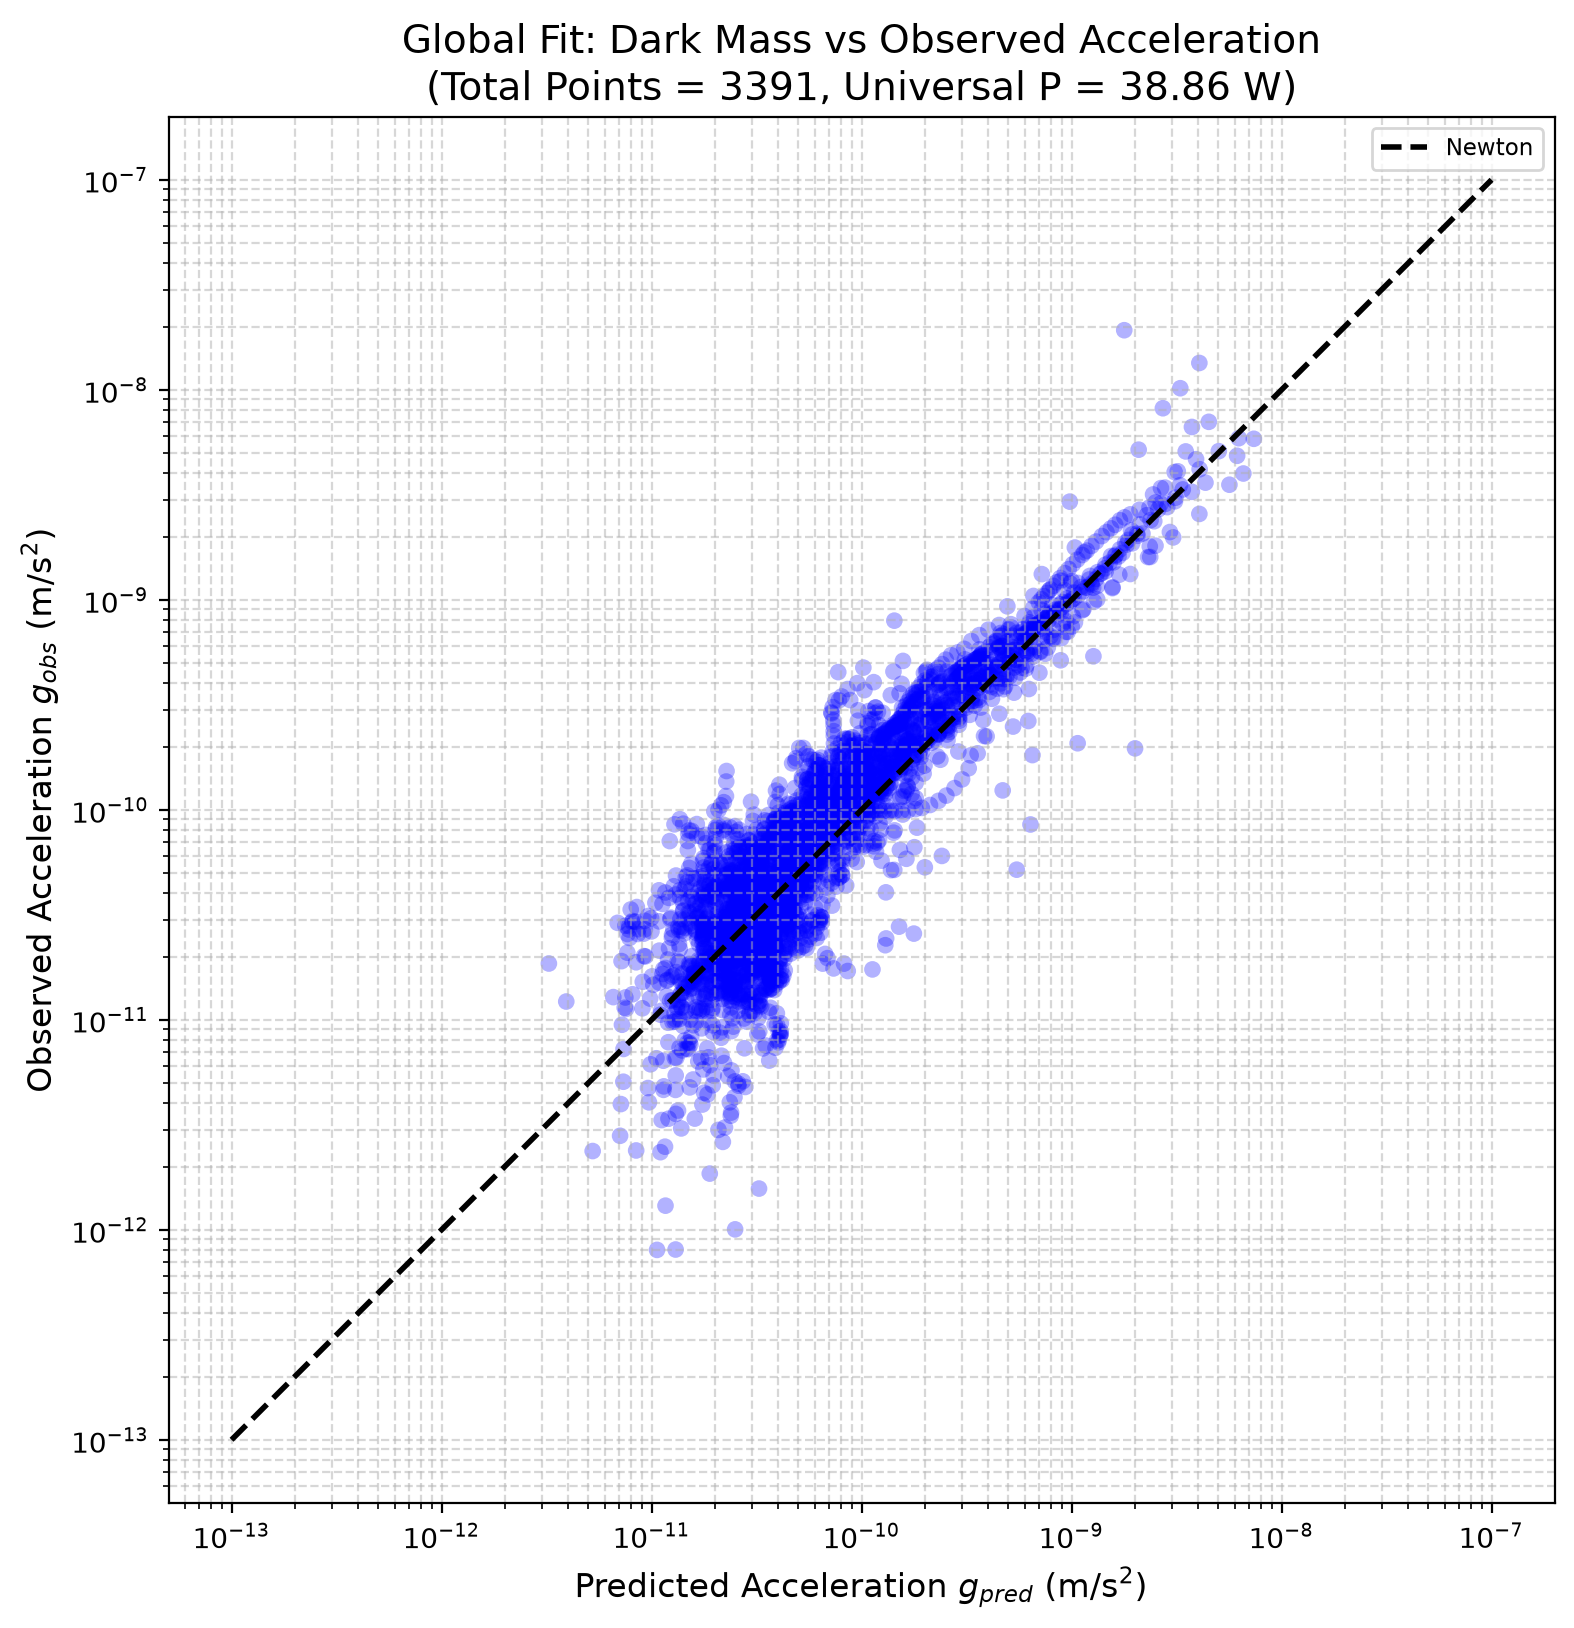
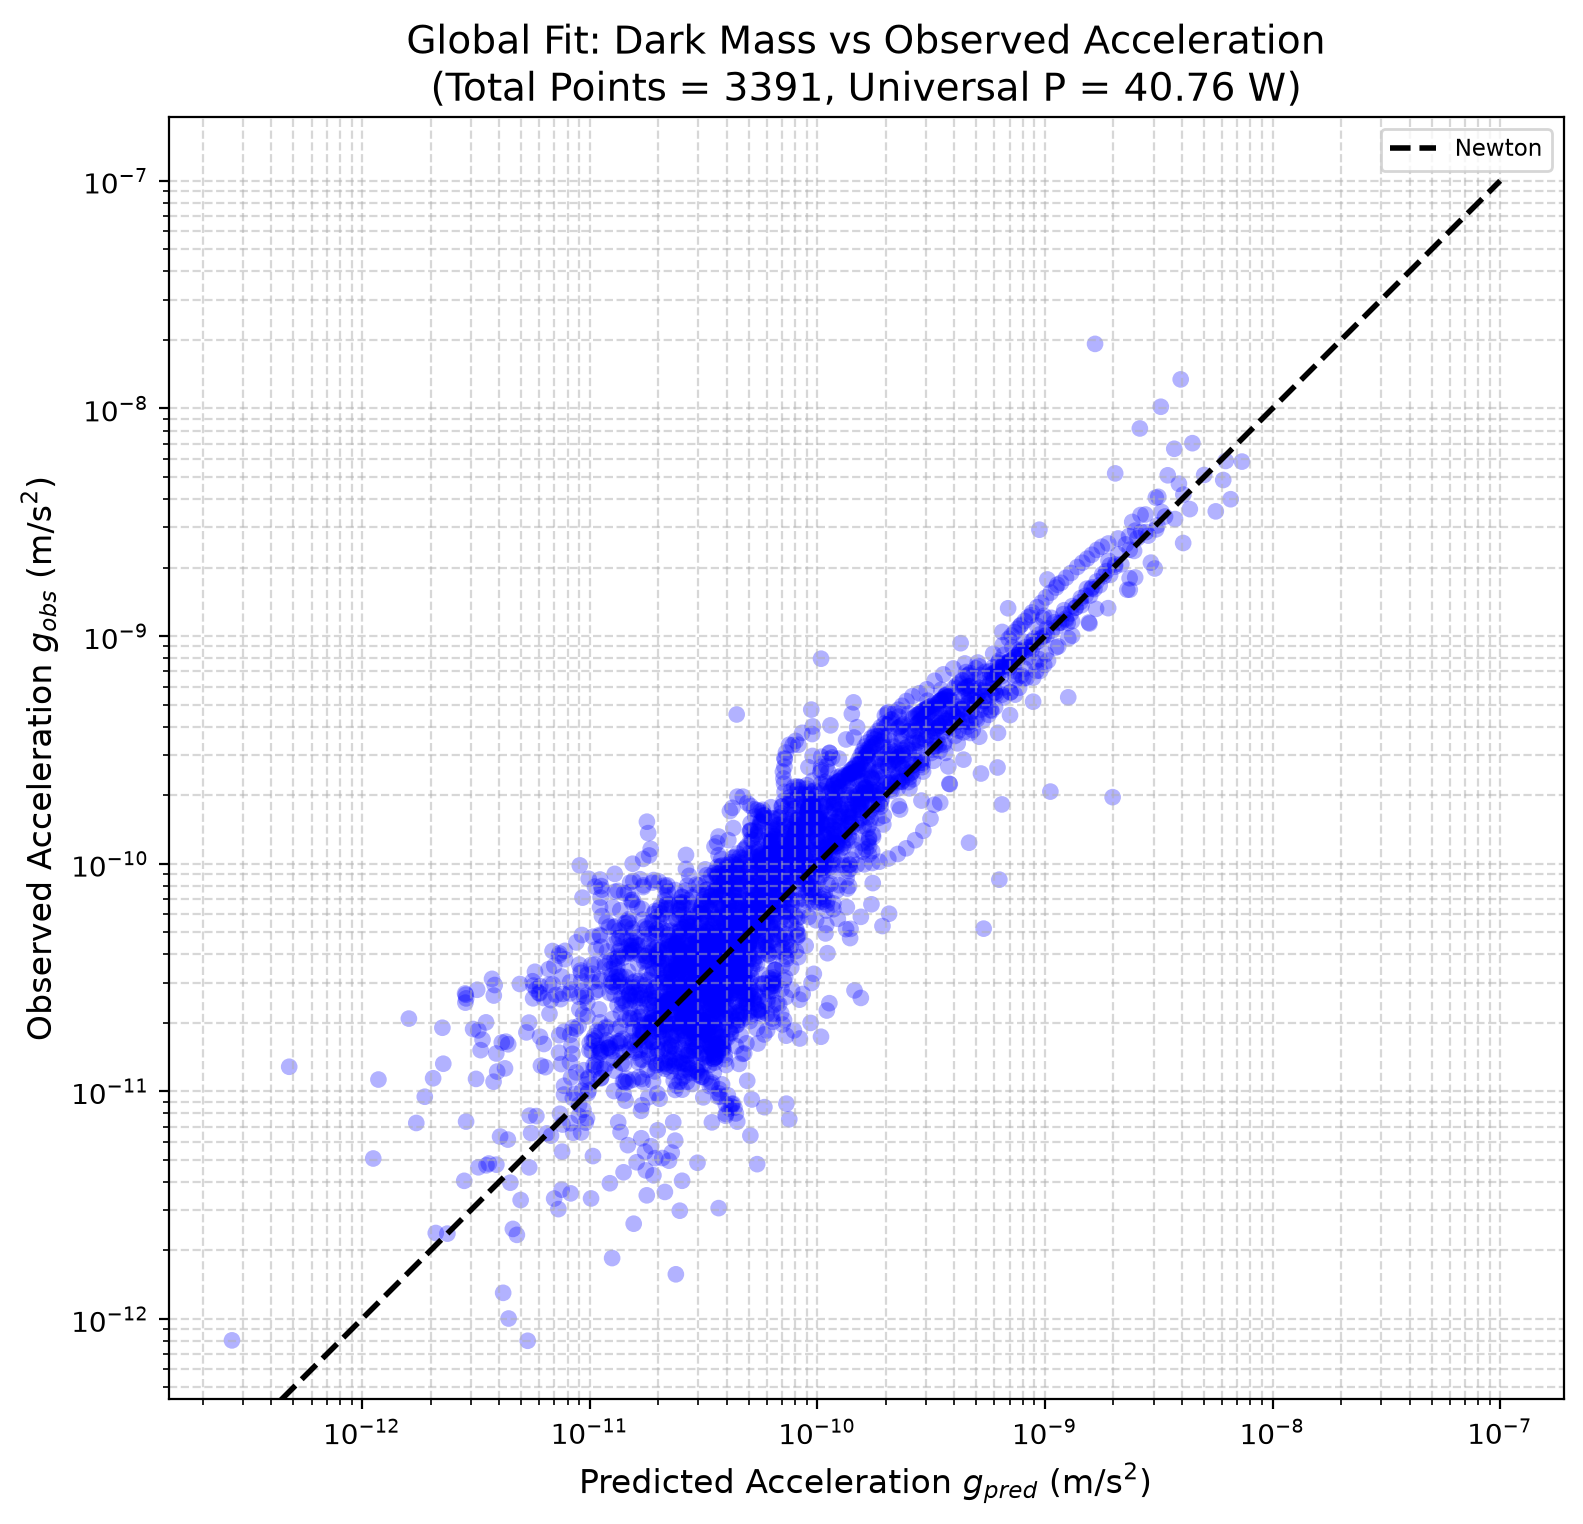
heat maps

Changed region(s): [[0.0, 0.0, 0.9962, 0.9869]]

diff --git a/sparc/sparc_dm_bruteCGM.py b/sparc/sparc_dm_bruteCGM.py
@@ -1,8 +1,8 @@
-from gizmo_analysis import gizmo_default
 import numpy as np
 import os
 from scipy.optimize import minimize_scalar
 import matplotlib.pyplot as plt
+import matplotlib.colors as mcolors
 import warnings
 
 # Suppress integration warnings for highly dense inner rings
@@ -13,23 +13,15 @@ Upsilon_bulge = 0.7
 
 sqrt_Upsilon_disk = np.sqrt(Upsilon_disk)
 sqrt_Upsilon_bulge = np.sqrt(Upsilon_bulge)
-
-# Put controls here for adding a halo of gas around the galaxy
-#MIN_DENSITY_FOR_DM = 0
-#MIN_DENSITY_WITHIN_R_D = 0   
  
-NUM_BLOBS_THETA = 87 
-NUM_LAYERS_Z = 503
-Z_HEIGHT =170 # number of scale heights of the disk we go to. Needs to be at least 2 for exponential disks, 1 would work for non exponential (i guess). 
-             # If USE_CGM_MODEL is True, you want to reach out of the scale height....go at least 20.
- 
+NUM_BLOBS_THETA = 57 
+NUM_LAYERS_Z = 303
+Z_HEIGHT = 100  
 
-NUM_R_BINS = 97  # Added for continuous 3D volume integration
+NUM_R_BINS = 87  
 USE_EXPONENTIAL_DISK = True
 
-USE_CGM_MODEL = True # add a CGM halo of gas (which will have its own dm with it.)
-                     # IF USING CGM - we expand the disk 2x in the R direction, so make NUM_R_BINS like over 60 (say 200 for prod)
-                     # also make Z_HEIGHT over 20, likely 40
+USE_CGM_MODEL = False 
 GGM_GRID_SCALE = 2.0
 CGM_CENTRAL_DENSITY = 0.3
 
@@ -43,8 +35,13 @@ properties_file = "./sparc/SPARC_Lelli2016c.mrt.txt"
 kinematics_file = "./sparc/MassModels_Lelli2016_SigmaGas.mrt"
 output_galaxies = "./sparc/dm_mass/galaxies"
 output_dir = "./sparc/dm_mass"
+output_gas_heatmaps = "./sparc/dm_mass/gas_heatmaps"
+output_dm_heatmaps = "./sparc/dm_mass/dm_heatmaps"
+
 os.makedirs(output_galaxies, exist_ok=True)
 os.makedirs(output_dir, exist_ok=True)
+os.makedirs(output_gas_heatmaps, exist_ok=True)
+os.makedirs(output_dm_heatmaps, exist_ok=True)
 
 rd_dict = {}
 HIMass_dict = {}
@@ -126,7 +123,6 @@ for i, gal in enumerate(galaxies):
     V_disk_ms = g_data['Vdisk'] * 1000.0
     V_bul_ms = g_data['Vbul'] * 1000.0
     
-    # Create continuous, evenly spaced grid
     max_R_kpc = np.max(R_obs_kpc)
     grid_max = max_R_kpc
     if USE_CGM_MODEL:
@@ -136,13 +132,13 @@ for i, gal in enumerate(galaxies):
     R_grid_m = R_grid_kpc * kpc_to_m
     dR_m = R_grid_m[1] - R_grid_m[0]
     
-    # we get surprises when we let the gas go on forever, so taper things off... 
     g_data_r_obs_kpc = R_obs_kpc
     g_data_sigma_gas = g_data['Sigma_gas']
     g_data_Vdisk = g_data['Vdisk']
     g_data_Vbul = g_data['Vbul']
     g_data_Vgas = g_data['Vgas']
-    if USE_CGM_MODEL: # add extra point at the end, let the interp function do its job.
+    
+    if USE_CGM_MODEL: 
         rscale = 1.0/(GGM_GRID_SCALE * GGM_GRID_SCALE)
         g_data_r_obs_kpc = np.append(R_obs_kpc, grid_max)
         g_data_sigma_gas = np.append(g_data_sigma_gas, 0.0)
@@ -150,7 +146,6 @@ for i, gal in enumerate(galaxies):
         g_data_Vbul = np.append(g_data_Vbul, rscale*g_data_Vbul[-1])
         g_data_Vgas = np.append(g_data_Vgas, rscale*g_data_Vgas[-1])
     
-    # Interpolate input data onto the continuous grid
     Sigma_gas_cm2_grid = np.interp(R_grid_kpc, g_data_r_obs_kpc, g_data_sigma_gas)
     g_data['Vdisk_grid'] = np.interp(R_grid_kpc, g_data_r_obs_kpc, g_data_Vdisk)
     g_data['Vbul_grid'] = np.interp(R_grid_kpc, g_data_r_obs_kpc, g_data_Vbul)
@@ -160,24 +155,16 @@ for i, gal in enumerate(galaxies):
     hz_kpc = get_sparc_galaxy_scale_height(None, R_d)
     hz_m = hz_kpc * kpc_to_m
     
-    valid_obs = R_m_obs > 0 # indexes of valid observed radii
-    Sigma_gas_m2_grid = Sigma_gas_cm2_grid * 100.0 * 100.0 # work in SI units. This is observed surface gas density in particles/m^2
-    
-    # n_R_gas_grid = Sigma_gas_m2_grid / (2 * hz_m) 
-    # n_R_gas_grid = n_R_gas_grid * 1.0833 # account for other species like He, as the Sigma numbers are HI gas only 
-    # valid_dm_density = np.ones_like(n_R_gas_grid, dtype=bool)
-    # rho_dm_base_grid = np.zeros_like(n_R_gas_grid)
-    # rho_dm_base_grid[valid_dm_density] = (1.0 / c**3) * (n_R_gas_grid[valid_dm_density] ** (2/3))
+    valid_obs = R_m_obs > 0 
+    Sigma_gas_m2_grid = Sigma_gas_cm2_grid * 100.0 * 100.0 
     
     # ---------------------------------------------------------
     # BRUTE FORCE 3D BLOB CALCULATION (Continuous Grid)
     # ---------------------------------------------------------
-    
-    # create the 3D array
     nz = NUM_LAYERS_Z
     ntheta = NUM_BLOBS_THETA
     
-    Z_m = np.linspace(-Z_HEIGHT * hz_m, Z_HEIGHT * hz_m, nz) # 3hz to 3hz maybe better?    OR MORE for a extragalacit gas halo??
+    Z_m = np.linspace(-Z_HEIGHT * hz_m, Z_HEIGHT * hz_m, nz) 
     dZ = Z_m[1] - Z_m[0] if nz > 1 else 2.0 * hz_m 
     
     theta_rad = np.linspace(0, 2 * np.pi, ntheta, endpoint=False)
@@ -185,20 +172,13 @@ for i, gal in enumerate(galaxies):
 
     R_grid_3d, Z_grid_3d, Theta_grid_3d = np.meshgrid(R_grid_m, Z_m, theta_rad, indexing='ij')
     
-    dV = R_grid_3d * dTheta * dR_m * dZ # Volume element of a blob in the grid
+    dV = R_grid_3d * dTheta * dR_m * dZ 
     
-
-    # layout gas particles per volume blob 
-    # gas_particle_density_1d - measured gas density at each gridded r
     gas_particle_density_1d = np.where(R_grid_m > 0, Sigma_gas_m2_grid / (2.0 * hz_m), 0.0)
     gas_particle_density_grid = gas_particle_density_1d[:, None, None] * np.ones_like(Z_grid_3d)
 
-    # that put the same amount of gas into each blob, vertically. We now have twice as much gas as we need. 
-    # We do the disk profile to get that right. 
     if USE_EXPONENTIAL_DISK:
         gas_particle_density_grid *= 0.5*np.exp(-np.abs(Z_grid_3d) / hz_m)
-        # The integral of 0.5*np.exp(-z / hz_m) dz from 0 to 2hz 
-        # is exactly 0.5 
     else: 
         z_mask = np.abs(Z_grid_3d) <= hz_m
         gas_particle_density_grid[~z_mask] = 0.0
@@ -207,37 +187,31 @@ for i, gal in enumerate(galaxies):
     Y_blob = R_grid_3d * np.sin(Theta_grid_3d)
     Z_blob = Z_grid_3d
 
-    # CGM model. 
     if USE_CGM_MODEL:
-        total_mass = TL_dict[gal_name] + HIMass_dict[gal_name] # in solar masses
+        total_mass = TL_dict[gal] + HIMass_dict[gal] 
 
         r_core_kpc = 2.0*(total_mass*1e9/1e11)**(1/3)
         r_core_m = r_core_kpc*kpc_to_m
-        n_0_cgs = CGM_CENTRAL_DENSITY # central density in particles per cm^3 
+        n_0_cgs = CGM_CENTRAL_DENSITY  
         n_0_m3 =  n_0_cgs * (100)**3
         beta = 2.0/3.0
         exponent = -3.0*beta/2.0
         gas_particle_density_grid += n_0_m3*(1 + (X_blob**2 + Y_blob**2 + Z_blob**2)/r_core_m**2)**exponent
 
+    # --- NEW: Attach 2D slice at y=0 (theta=0) for heatmaps ---
+    g_data['R_grid_kpc'] = R_grid_kpc
+    g_data['Z_grid_kpc'] = Z_m / kpc_to_m
+    g_data['gas_density_slice_m3'] = gas_particle_density_grid[:, :, 0].copy()
 
-
-
-
-    # ok, so now gas_particle_density_grid has HI densities in particles/m^3 for each blob
-    # we use this to create two 3D arrays, one for gas mass in each blob, and one for dm mass in each blob
-    gas_particle_mass_He_factor = 1.33 #  1.33 as we are still looking at the mass. 
+    gas_particle_mass_He_factor = 1.33  
     dm_gas = gas_particle_density_grid *m_p*gas_particle_mass_He_factor * dV
     dm_base_dm = (1/c**3)*gas_particle_density_grid**(2/3) * dV 
-    # CHECK: Does the sum of all the gas mass densities*dZ over all the z-values for a given R give the surface density in particles/m^2?
-    # If not, I need to fix it.  
 
-    
     V_gas_sq_grid = np.zeros_like(R_grid_m)
     V_dm_sq_base_grid = np.zeros_like(R_grid_m)
     
     softening_sq = (0.01 * hz_m)**2 
     
-    # Evaluate across continuous grid
     for i_idx, R_test in enumerate(R_grid_m):
         dx = X_blob - R_test
         dy = Y_blob
@@ -254,16 +228,12 @@ for i, gal in enumerate(galaxies):
         V_gas_sq_grid[i_idx] = -a_x_gas * R_test
         V_dm_sq_base_grid[i_idx] = max(0, -a_x_dm * R_test)
         
-    # Store continuous fields for smooth plotting
-    g_data['R_grid_kpc'] = R_grid_kpc
     g_data['V_dm_sq_base_grid_kms'] = V_dm_sq_base_grid / 1e6
     g_data['Vgas_test_grid_kms'] = np.sign(V_gas_sq_grid) * np.sqrt(np.abs(V_gas_sq_grid)) / 1000.0
     
-    # Map back to observation points for optimization and errors
     g_data['V_dm_sq_base_kms'] = np.interp(R_obs_kpc, R_grid_kpc, V_dm_sq_base_grid / 1e6)
     g_data['Vgas_test'] = np.interp(R_obs_kpc, R_grid_kpc, g_data['Vgas_test_grid_kms'])
     
-    # Calculate simple MOND for reference
     V_bar_sq = np.clip(V_disk_ms**2 + V_bul_ms**2 + V_gas_ms * np.abs(V_gas_ms), 0, None)
     g_N = np.zeros_like(R_m_obs)
     g_N[valid_obs] = V_bar_sq[valid_obs] / R_m_obs[valid_obs]
@@ -271,10 +241,6 @@ for i, gal in enumerate(galaxies):
     g_mond = (g_N + np.sqrt(g_N**2 + 4 * g_N * a0_mond)) / 2.0
     g_data['V_mond_kms'] = np.sqrt(g_mond * R_m_obs) / 1000.0
 
-    if gal == 'NGC5033':
-        print(g_mond)
-        print(g_data['V_mond_kms'])
-        
 
 print("\nIntegrations complete. Optimizing global parameter for Linear Absolute Error...")
 
@@ -289,10 +255,7 @@ def global_fit_err(P_test):
         V_bar_sq_kms = np.clip(g['Vdisk']**2 + g['Vbul']**2 + g['Vgas'] * np.abs(g['Vgas']), 0, None)
         V_tot_test = np.sqrt(V_bar_sq_kms + V_dm_test_sq)
         
-        # comment one of these out to switch error functions
-        #the_err = np.sum(np.abs(g['Vobs'] - V_tot_test) / g['eVobs']) # linear with error bars
-        #the_err = np.sum(np.abs(g['Vobs'] - V_tot_test)) # in km/sec
-        the_err = np.sum(((g['Vobs'] - V_tot_test) / g['eVobs'])**2) # chi-sq
+        the_err = np.sum(((g['Vobs'] - V_tot_test) / g['eVobs'])**2) 
         total_err += the_err
 
     print(f"Current P_test: {P_test:.4f} Watts, Current Error: {total_err:.2f}")   
@@ -301,11 +264,6 @@ def global_fit_err(P_test):
 result = minimize_scalar(global_fit_err, bounds=(2.0, 100.0), method='bounded')
 best_global_P = result.x
 min_found_err = result.fun
-
-# print(f"Trying Power test 0 - 100W")
-# for power_guess in np.linspace(0.1, 100.0, 100):
-#     error = global_fit_err(power_guess)
-
     
 dm_chi2_total = 0
 dm_linear_total = 0
@@ -322,22 +280,61 @@ for gal in galaxies:
     
     dm_chi2_total += np.sum(((g['Vobs'] - V_tot_final_kms) / g['eVobs'])**2)
     dm_linear_total_err += np.sum(np.abs(g['Vobs'] - V_tot_final_kms) / g['eVobs'])
-    dm_linear_total += np.sum(np.abs(g['Vobs'] - V_tot_final_kms)) # in km/sec
+    dm_linear_total += np.sum(np.abs(g['Vobs'] - V_tot_final_kms)) 
 
     mond_chi2_total += np.sum(((g['Vobs'] - g['V_mond_kms']) / g['eVobs'])**2)
     mond_linear_total_err += np.sum(np.abs(g['Vobs'] - g['V_mond_kms']) / g['eVobs'])
-    mond_linear_total += np.sum(np.abs(g['Vobs'] - g['V_mond_kms'])) # in km/sec
+    mond_linear_total += np.sum(np.abs(g['Vobs'] - g['V_mond_kms'])) 
 
-print(f"\n--- GLOBAL OPTIMIZATION RESULTS ---")
-print(f"Best Universal Power (P): {best_global_P:.4f} Watts")
-print(f"Dark Mass Theory - Found Error:  {min_found_err:.2f}")
-print(f"Dark Mass Theory - Resulting Chi-squared: {dm_chi2_total:.2f}")
-print(f"Dark Mass Theory - Resulting Linear: {dm_linear_total_err:.2f}")
-print(f"Dark Mass Theory - Resulting Linear - km2: {dm_linear_total:.2f}")
-print(f"\n--- MOND (Simple) PREDICTION ERRORS ---")
-print(f"MOND - Chi-squared:   {mond_chi2_total:.2f}")
-print(f"MOND - Linear Error :  {mond_linear_total_err:.2f}")
-print(f"MOND - Linear Error - km2: {mond_linear_total:.2f}")
+
+# ---------------------------------------------------------
+# NEW FUNCTION: Generate and output heatmaps
+# ---------------------------------------------------------
+def generate_density_heatmaps(galaxy_dict, best_P):
+    print("\nGenerating 2D Gas and DM Heatmaps...")
+    for gal in galaxy_dict:
+        g = galaxy_dict[gal]
+        R_kpc = g['R_grid_kpc']
+        Z_kpc = g['Z_grid_kpc']
+        gas_density_m3 = g['gas_density_slice_m3']
+        
+        # 1) Gas density to particles/cm^3 (1 m^3 = 10^6 cm^3)
+        gas_density_cm3 = gas_density_m3 / 1e6
+        
+        # 2) DM density (mass density in kg/m^3) -> particles/cm^3 (divide by m_p and 10^6)
+        dm_density_kg_m3 = best_P * (1/c**3) * (gas_density_m3**(2/3))
+        dm_density_cm3 = dm_density_kg_m3 / (m_p * 1e6)
+        
+        R_mesh, Z_mesh = np.meshgrid(R_kpc, Z_kpc, indexing='ij')
+
+        # --- Plot Gas Heatmap ---
+        plt.figure(figsize=(10, 6))
+        # Ensure log scale works by adding a tiny epsilon if 0 exists
+        vmin = max(gas_density_cm3.max() * 1e-4, 1e-6)
+        pcm = plt.pcolormesh(R_mesh, Z_mesh, gas_density_cm3, 
+                             shading='auto', cmap='viridis', 
+                             norm=mcolors.LogNorm(vmin=vmin, vmax=gas_density_cm3.max()))
+        plt.colorbar(pcm, label='Gas Density (particles / cm$^3$)')
+        plt.xlabel('Radius [x-axis] (kpc)')
+        plt.ylabel('Height [z-axis] (kpc)')
+        plt.title(f'{gal} 2D Gas Density (y=0 slice)')
+        plt.savefig(os.path.join(output_gas_heatmaps, f"{gal}_gas_heatmap.png"), bbox_inches='tight', dpi=200)
+        plt.close()
+
+        # --- Plot DM Heatmap ---
+        plt.figure(figsize=(10, 6))
+        vmin_dm = max(dm_density_cm3.max() * 1e-4, 1e-6)
+        pcm = plt.pcolormesh(R_mesh, Z_mesh, dm_density_cm3, 
+                             shading='auto', cmap='plasma', 
+                             norm=mcolors.LogNorm(vmin=vmin_dm, vmax=dm_density_cm3.max()))
+        plt.colorbar(pcm, label='DM Density Equivalent (protons / cm$^3$)')
+        plt.xlabel('Radius [x-axis] (kpc)')
+        plt.ylabel('Height [z-axis] (kpc)')
+        plt.title(f'{gal} 2D Dark Mass Density (y=0 slice)\n$P={best_P:.2f}W$')
+        plt.savefig(os.path.join(output_dm_heatmaps, f"{gal}_dm_heatmap.png"), bbox_inches='tight', dpi=200)
+        plt.close()
+
+generate_density_heatmaps(galaxies, best_global_P)
 
 # 5. Generate Output Plots
 print("\nGenerating individual galaxy plots and master summary...")
@@ -347,7 +344,6 @@ all_V_pred = []
 for gal in galaxies:
     g = galaxies[gal]
     
-    # Point-matching for error tracking
     V_dm_final_obs_kms = np.sqrt(best_global_P * g['V_dm_sq_base_kms'])
     V_bar_sq_obs_kms = np.clip(g['Vdisk']**2 + g['Vbul']**2 + g['Vgas'] * np.abs(g['Vgas']), 0, None)
     V_tot_final_obs_kms = np.sqrt(V_bar_sq_obs_kms + V_dm_final_obs_kms**2)
@@ -355,32 +351,26 @@ for gal in galaxies:
     all_V_obs.extend(g['Vobs'])
     all_V_pred.extend(V_tot_final_obs_kms)
     
-    # Continuous arrays for plotting
     V_dm_final_grid_kms = np.sqrt(best_global_P * g['V_dm_sq_base_grid_kms'])
     V_bar_sq_grid_kms = np.clip(g['Vdisk_grid']**2 + g['Vbul_grid']**2 + g['Vgas_grid'] * np.abs(g['Vgas_grid']), 0, None)
     V_tot_final_grid_kms = np.sqrt(V_bar_sq_grid_kms + V_dm_final_grid_kms**2)
     
     plt.figure(figsize=(9, 6))
 
-    # Plot final total prediction on the smooth grid
     plt.plot(g['R_grid_kpc'], V_dm_final_grid_kms, 'm--', label=f'dark mass (dm)')
     plt.plot(g['R_grid_kpc'], V_tot_final_grid_kms, 'r-', linewidth=2, label='baryons + dm')
-
 
     plt.plot(g['R'], g['Vgas'], 'g', label='gas', linestyle='dotted', linewidth=0.7)
     plt.plot(g['R'], g['Vdisk'], 'violet', label='disk', linestyle='dashdot', linewidth=0.7)
     if np.any(g['Vbul'] > 0):
         plt.plot(g['R'], g['Vbul'], 'red', label='bulge', linestyle='dashed', linewidth=0.7)
   
-    # Plot model against high-res grid
     plt.plot(g['R_grid_kpc'], g['Vgas_test_grid_kms'], 'g', label="gas ($\\Sigma_{gas}$)", linewidth=0.5)
     plt.plot(g['R_grid_kpc'], np.sqrt(V_bar_sq_grid_kms), 'blue', label='all baryons', linewidth=0.7)
     
     max_r = max(g['R'])
     plt.xlim(0.0, max_r) 
-    #plt.xscale('log')
     plt.plot(g['R'], g['V_mond_kms'], 'c-.', linewidth=1, label='MOND')
-
  
     plt.errorbar(g['R'], g['Vobs'], yerr=g['eVobs'], fmt='ko', label='observed', capsize=1.5, capthick=1.0, markersize=2, elinewidth=0.6)
     
@@ -388,7 +378,7 @@ for gal in galaxies:
     plt.ylabel('Velocity (km/s)')
     plt.title(f'{gal} Kinematics (Universal P = {best_global_P:.2f} W)')
     leg = plt.legend(fontsize="small")
-    leg.get_frame().set_linewidth(0.0) # borderless but opaque white background
+    leg.get_frame().set_linewidth(0.0) 
 
     plt.grid(True, linewidth=0.5, alpha=0.7)
     
